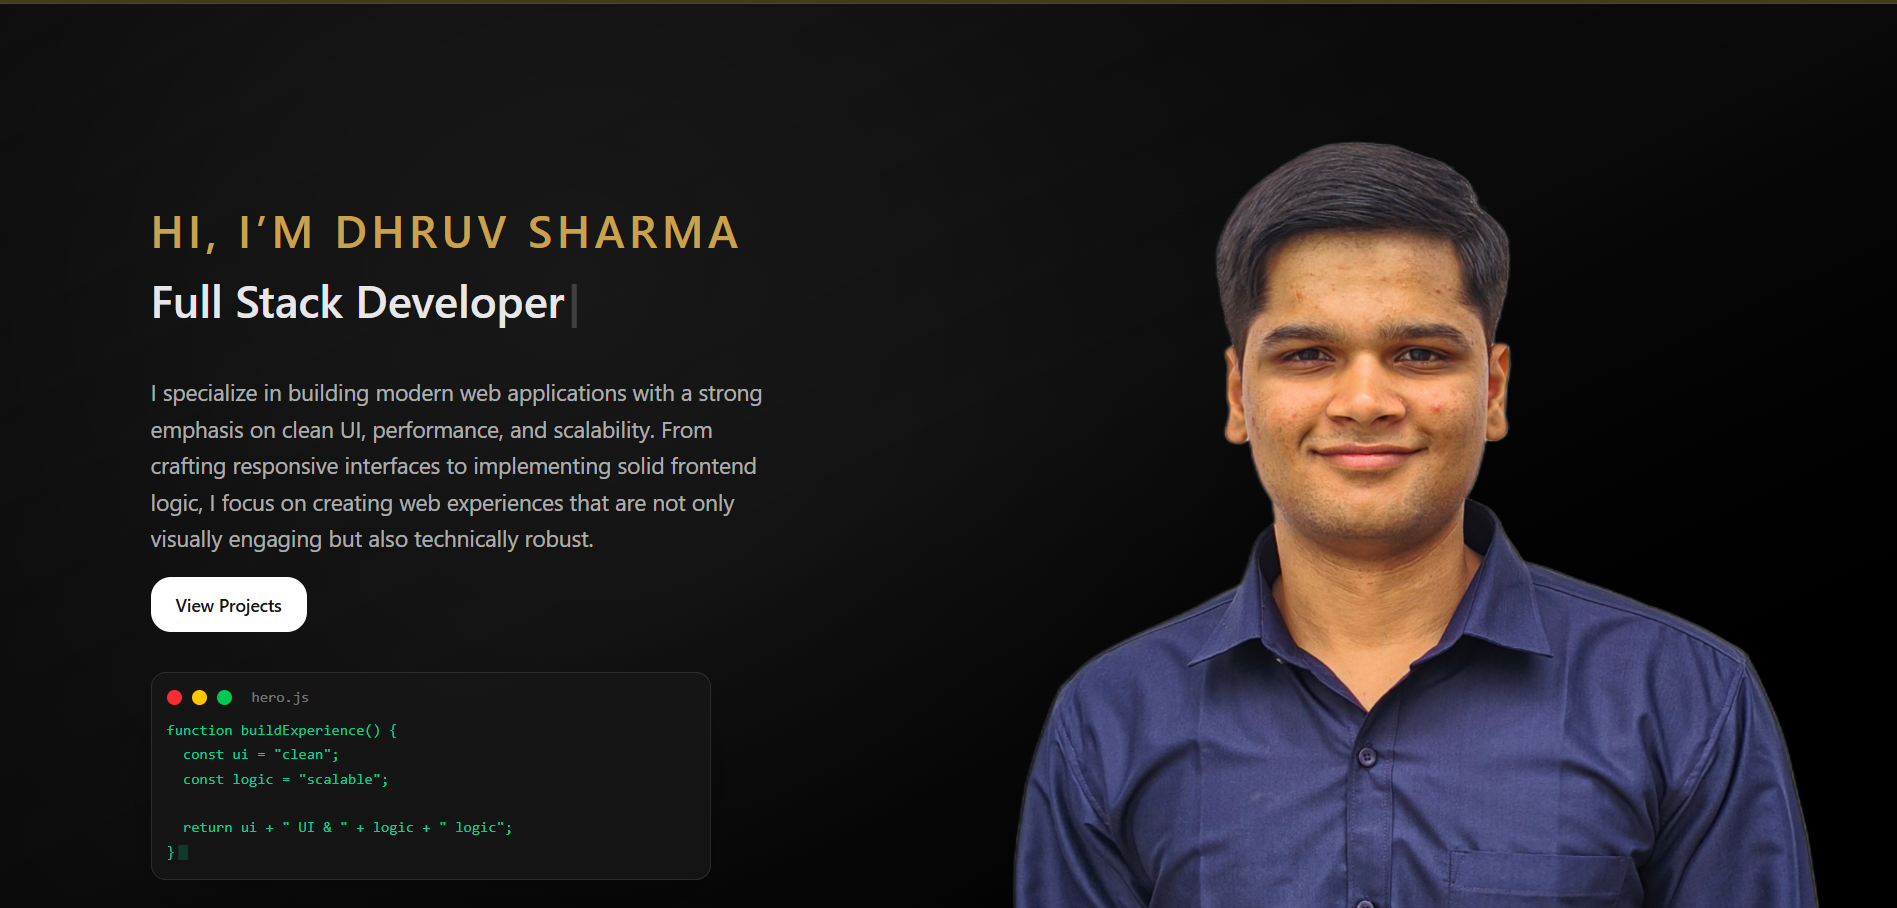
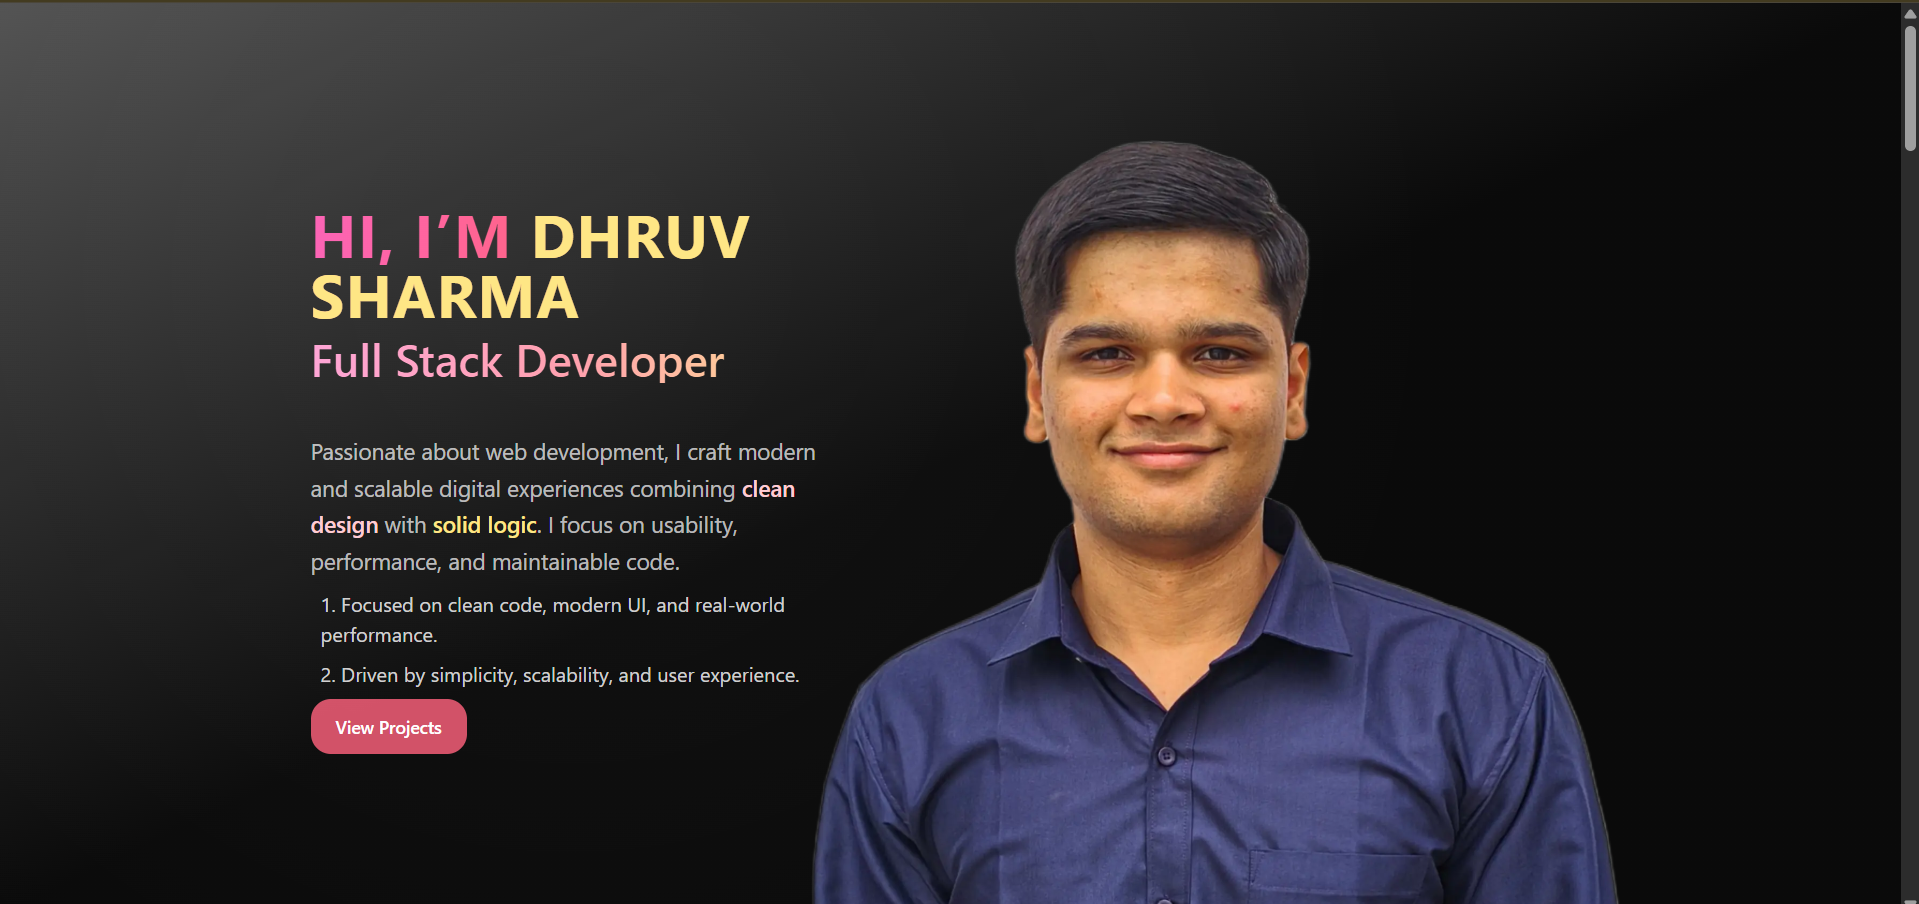
Update ogimage and Update Something in th code

diff --git a/src/Pages/LandingPage.jsx b/src/Pages/LandingPage.jsx
@@ -1,3 +1,167 @@
+// import { motion } from "framer-motion";
+// import { useEffect, useState } from "react";
+// import Container from "../Components/Container";
+// import Button from "../Components/Button";
+// import ProfilePicture from "../assets/ProfilePicture.webp";
+// import { useTypewriter, Cursor } from "react-simple-typewriter";
+
+// export default function HeroSection() {
+//   const [mounted, setMounted] = useState(false);
+//   useEffect(() => setMounted(true), []);
+
+//   const [text] = useTypewriter({
+//     words: [
+//       "Full Stack Developer",
+//       "Backend Developer",
+//       "Frontend Developer",
+//       "MERN Stack Developer",
+//     ],
+//     loop: 0,
+//     typeSpeed: 70,
+//     deleteSpeed: 50,
+//     delaySpeed: 1200,
+//   });
+
+//   return (
+//     <section
+//       id="home"
+//       className="relative min-h-screen bg-gradient-to-br from-neutral-600 via-neutral-950 to-neutral-950 text-white overflow-hidden"
+//     >
+//       <div className="absolute inset-0 pointer-events-none bg-[radial-gradient(circle_at_30%_30%,rgba(255,255,255,0.04),transparent_60%)]" />
+
+//       {/* ================= MOBILE ================= */}
+//       <div className="block lg:hidden">
+//         <Container className="relative z-20 pt-24 px-6 pb-16">
+//           <div className="mx-auto max-w-[1200px] flex flex-col items-center gap-8">
+
+//             {/* Original Content - Top Section */}
+//             <motion.div
+//               className="w-full space-y-4"
+//               initial={{ opacity: 0, y: -20 }}
+//               animate={{ opacity: 1, y: 0 }}
+//               transition={{ duration: 0.8 }}
+//             >
+//               <h1 className="text-4xl font-bold text-center bg-clip-text text-transparent bg-gradient-to-r from-pink-400 via-rose-400 to-amber-300">
+//                 Hi, I'm <span className="text-amber-200">Dhruv Sharma</span>
+//               </h1>
+
+//               <div className="min-h-[2.5rem] text-center">
+//                 <p className="text-2xl font-semibold bg-clip-text text-transparent bg-gradient-to-r from-pink-300 via-rose-300 to-amber-200">
+//                   {mounted && (<>{text}<Cursor cursorStyle="|" /></>)}
+//                 </p>
+//               </div>
+
+//               <p className="text-white/70 text-sm text-center leading-relaxed max-w-md mx-auto">
+//                 Passionate about web development, I craft modern and scalable digital experiences combining clean design with solid logic. I focus on usability, performance, and maintainable code.
+//               </p>
+
+//               <ol className="text-white/80 list-decimal list-inside space-y-1 text-sm text-center max-w-md mx-auto">
+//                 <li>Focused on clean code, modern UI, and performance.</li>
+//                 <li>Driven by simplicity, scalability, and UX.</li>
+//               </ol>
+
+//               <div className="flex justify-center">
+//                 <Button
+//                   className="bg-rose-400/80 hover:bg-rose-400 text-white px-5 py-2 text-sm font-medium transition-all duration-300 hover:scale-105"
+//                   onClick={() =>
+//                     document.getElementById("projects")?.scrollIntoView({ behavior: "smooth" })
+//                   }
+//                 >
+//                   View Project
+//                 </Button>
+//               </div>
+//             </motion.div>
+
+//             {/* Simple Professional Image Box */}
+//             <motion.div
+//               className="w-full max-w-lg mt-6"
+//               initial={{ opacity: 0, y: 50 }}
+//               animate={{ opacity: 1, y: 0 }}
+//               transition={{ duration: 1, delay: 0.3 }}
+//             >
+//               <div className="bg-neutral-900/50 backdrop-blur-sm rounded-2xl p-4 border border-white/10 shadow-xl">
+//                 <img
+//                   src={ProfilePicture}
+//                   alt="Dhruv Sharma"
+//                   className="w-full h-auto rounded-xl"
+//                 />
+//               </div>
+//             </motion.div>
+
+//           </div>
+//         </Container>
+//       </div>
+
+//       {/* ================= LARGE SCREEN ================= */}
+//       <div className="hidden lg:block">
+//         <Container className="relative z-20 pt-32 px-6 lg:px-16 pb-4">
+//           <div className="mx-auto max-w-[1200px] flex flex-col md:flex-row items-center md:items-end justify-between gap-6">
+//             <motion.div
+//               className="flex flex-col gap-2 md:w-6/12 lg:w-5/12"
+//               initial={{ opacity: 0, x: -30 }}
+//               whileInView={{ opacity: 1, x: 0 }}
+//               transition={{ duration: 0.6 }}
+//               viewport={{ once: true }}
+//             >
+//               <h1 className="text-5xl font-bold uppercase tracking-wide bg-clip-text text-transparent bg-gradient-to-r from-pink-400 via-rose-400 to-amber-300">
+//                 Hi, I'm <span className="text-amber-200">Dhruv Sharma</span>
+//               </h1>
+
+//               <div className="min-h-[4.5rem]">
+//                 <p className="text-3xl font-semibold bg-clip-text text-transparent bg-gradient-to-r from-pink-300 via-rose-300 to-amber-200">
+//                   {mounted && (<>{text}<Cursor cursorStyle="|" /></>)}
+//                 </p>
+//               </div>
+
+//                       <p className="text-white/70 text-sm sm:text-base md:text-lg max-w-lg leading-relaxed">
+//                Passionate about web development, I craft modern and scalable
+//               digital experiences combining{" "}
+//                <span className="text-rose-200 font-medium">clean design</span>{" "}
+//              with{" "}
+//                <span className="text-amber-200 font-medium">solid logic</span>. I
+//                               focus on usability, performance, and maintainable code.
+//                                            </p>
+
+//              <ol className="text-white/80 list-decimal list-inside space-y-2 ml-2">
+//                <li>Focused on clean code, modern UI, and real-world performance.</li>
+//                <li>Driven by simplicity, scalability, and user experience.</li>
+//             </ol>
+
+//               <Button
+//                 className="bg-rose-400/80 hover:bg-rose-400 text-white px-5 py-2 text-sm font-medium w-fit transition-all duration-300 hover:scale-105"
+//                 onClick={() =>
+//                   document.getElementById("projects")?.scrollIntoView({ behavior: "smooth" })
+//                 }
+//               >
+//                 View Projects
+//               </Button>
+//             </motion.div>
+//           </div>
+//         </Container>
+
+//         <div className="absolute inset-x-0 bottom-0 z-10 pointer-events-none">
+//           <div className="mx-auto max-w-[1800px] relative flex justify-end pr-6 lg:pr-16">
+//             <motion.img
+//               src={ProfilePicture}
+//               alt="Dhruv Sharma"
+//               loading="eager"
+//               fetchPriority="high"
+//               decoding="async"
+//               width="600"
+//               height="800"
+//               className="h-[80vh] xl:h-[90vh] w-auto object-contain select-none"
+//               initial={{ opacity: 0, scale: 0.9 }}
+//               animate={{ scale: 1, opacity: 1 }}
+//               transition={{ duration: 1, delay: 0.5 }}
+//               whileHover={{ scale: 1.02 }}
+//             />
+//           </div>
+//         </div>
+//       </div>
+//     </section>
+//   );
+// }
+
 import { motion } from "framer-motion";
 import { useEffect, useState } from "react";
 import Container from "../Components/Container";
@@ -92,7 +256,7 @@ export default function HeroSection() {
         </Container>
       </div>
 
-      {/* ================= LARGE SCREEN ================= */}
+      {/* ================= LARGE SCREEN - ORIGINAL DESIGN ================= */}
       <div className="hidden lg:block">
         <Container className="relative z-20 pt-32 px-6 lg:px-16 pb-4">
           <div className="mx-auto max-w-[1200px] flex flex-col md:flex-row items-center md:items-end justify-between gap-6">
@@ -134,7 +298,8 @@ export default function HeroSection() {
           </div>
         </Container>
 
-        <div className="absolute inset-x-0 bottom-0 z-10 pointer-events-none">
+        {/* Image positioned at bottom-right - ORIGINAL STYLE */}
+        <div className="absolute inset-x-0 bottom-0 z-10 pointer-events-none max-[1023px]:hidden">
           <div className="mx-auto max-w-[1800px] relative flex justify-end pr-6 lg:pr-16">
             <motion.img
               src={ProfilePicture}
@@ -151,6 +316,28 @@ export default function HeroSection() {
               whileHover={{ scale: 1.02 }}
             />
           </div>
+        </div>
+
+        {/* Alternative layout for mobile Chrome desktop mode (small screens with lg class) */}
+        <div className="hidden max-[1023px]:block">
+          <Container className="relative z-20 pb-16">
+            <div className="mx-auto max-w-[600px]">
+              <motion.div
+                className="w-full"
+                initial={{ opacity: 0, y: 30 }}
+                animate={{ opacity: 1, y: 0 }}
+                transition={{ duration: 0.8, delay: 0.5 }}
+              >
+                <div className="bg-neutral-900/50 backdrop-blur-sm rounded-2xl p-4 border border-white/10 shadow-xl">
+                  <img
+                    src={ProfilePicture}
+                    alt="Dhruv Sharma"
+                    className="w-full h-auto rounded-xl"
+                  />
+                </div>
+              </motion.div>
+            </div>
+          </Container>
         </div>
       </div>
     </section>
